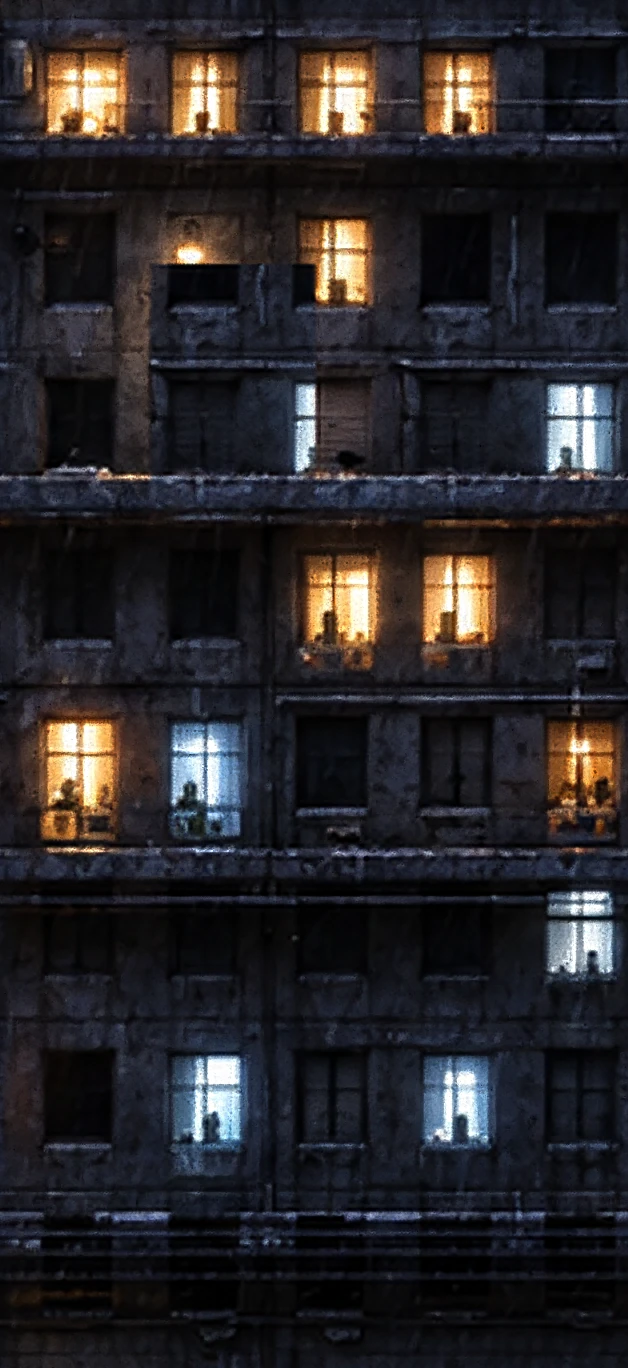
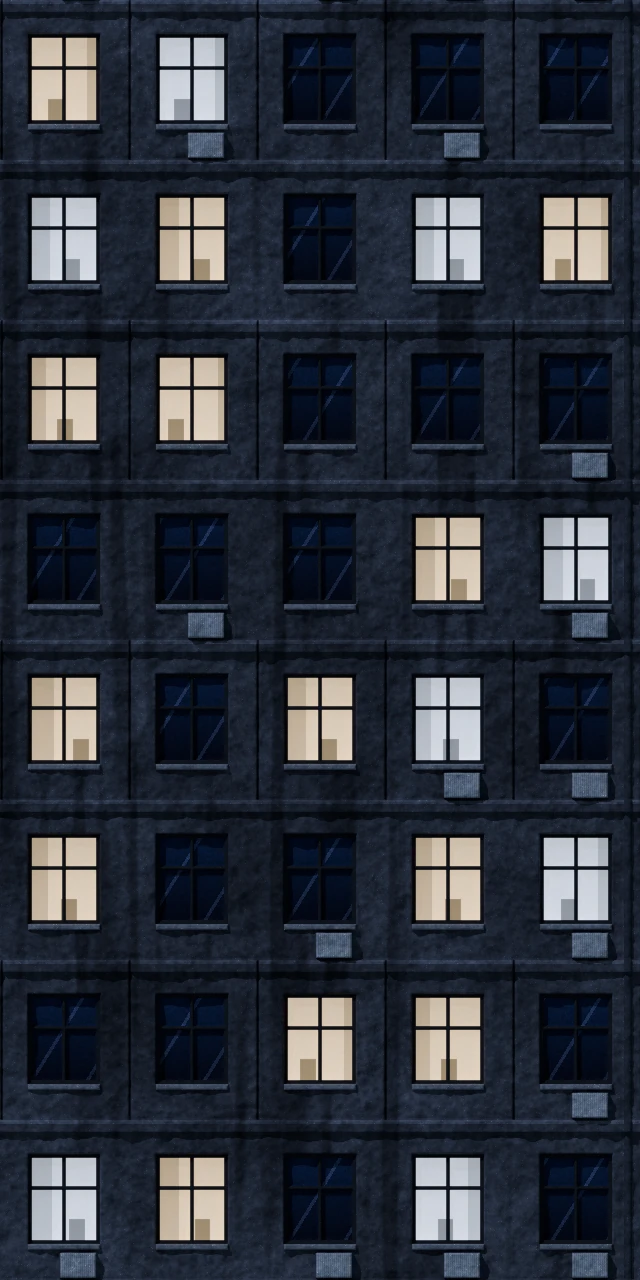
Версия 2026.10.15-60: фасады города — блочный рендер Blender ×4

diff --git a/js/terrain_visual.js b/js/terrain_visual.js
@@ -581,9 +581,9 @@ function shadeMaterial(S, mt, x, y, t, capT, d, info, o, isBack) {
           const lum = r * 0.3 + g * 0.59 + bl * 0.11;
           if (lum > 120 && Math.max(r, g, bl) - Math.min(r, g, bl) > 12 || lum > 175) {
             // свет каждого окна свой (ячейка окна в координатах здания, а не плитки): часть гаснет, у остальных — разная яркость и тон
-            const wc = Math.floor((x - prm.x0) / 31.4), wr = Math.floor((y - prm.y0) / 38), hw = hash3(wc, wr, info.idx * 7 + 11), ht = hash3(wc, wr, info.idx * 7 + 12);
+            const wc = Math.floor((x - prm.x0) / 32), wr = Math.floor((y - prm.y0) / 40), hw = hash3(wc, wr, info.idx * 7 + 11), ht = hash3(wc, wr, info.idx * 7 + 12);
             if (hw < 0.3) { r *= 0.16; g *= 0.17; bl *= 0.2; }
-            else { const k = 0.72 + hw * 0.42; r = Math.min(255, r * k * (ht < 0.5 ? 1.04 : 0.94)); g = Math.min(255, g * k); bl = Math.min(255, bl * k * (ht < 0.5 ? 0.9 : 1.1));
+            else { const k = 0.72 + hw * 0.42, warmW = ht < 0.68; r = Math.min(255, r * k * (warmW ? 1.06 : 0.92)); g = Math.min(255, g * k * (warmW ? 0.84 : 0.98)); bl = Math.min(255, bl * k * (warmW ? 0.58 : 1.1));   /* большинство окон — тёплый свет ламп, как в эталоне */
               o.emit = true; o.emitTex = true; o.ga = (isBack ? 150 : 230) * (0.6 + hw * 0.4); o.gr = r; o.gg = g; o.gb = bl; o.r = r; o.g = g; o.b = bl; }
           }
           else { r *= S.tgR; g *= S.tgG; bl *= S.tgB; }                                              // стены: яркость по эталону (gain темы)

diff --git a/index.html b/index.html
@@ -114,7 +114,7 @@
         </div>
       </div>
     </div>
-    <footer class="menu-footer"><span id="game-version">ВЕРСИЯ 2026.10.15-59</span><span>ПЛАНИРУЙ ХОД. МЕНЯЙ ЛАНДШАФТ.</span><span class="footer-status"><i></i> ГОТОВ К БОЮ</span></footer>
+    <footer class="menu-footer"><span id="game-version">ВЕРСИЯ 2026.10.15-60</span><span>ПЛАНИРУЙ ХОД. МЕНЯЙ ЛАНДШАФТ.</span><span class="footer-status"><i></i> ГОТОВ К БОЮ</span></footer>
   </section>
 
   <!-- Онлайн -->

diff --git a/dev/blender/make_facade.py b/dev/blender/make_facade.py
@@ -1,0 +1,88 @@
+"""Ночной фасад многоэтажки для города — блочный рендер в настоящем ×4 (hf_render.render_blocks), бесшовная плитка
+160×320 ед. (5 окон × 8 этажей, ячейка окна 32×40 ед. — по ней игра гасит и меняет свет окон, terrain_visual.js).
+
+Бетонные панели с потёками и пятнами, выступающие межэтажные пояса, утопленные окна с откосами, рамой, переплётом и
+подоконником, кондиционеры под частью окон, водосток. Горящие окна — тёплый/холодный свет комнаты со шторой и силуэтом
+мебели (излучение), тёмные — стекло с отражением неба и бликом.
+
+blender -b --python dev/blender/make_facade.py
+затем: python dev/tools/stitch_blocks.py test-results/blocks/facade_city <x4.png>; python dev/make_native.py <x4.png> facade_city --no-match --lossy
+"""
+import importlib.util
+import math
+import os
+
+import numpy as np
+
+HERE = os.path.dirname(os.path.abspath(__file__))
+spec = importlib.util.spec_from_file_location('mt', os.path.join(HERE, 'make_textures.py'))
+mt = importlib.util.module_from_spec(spec); spec.loader.exec_module(mt)
+spec2 = importlib.util.spec_from_file_location('hf', os.path.join(HERE, 'hf_render.py'))
+hf = importlib.util.module_from_spec(spec2); spec2.loader.exec_module(hf)
+
+R = 4                      # пикселей на единицу мира (родная ×4)
+TW, TH, CW, RH = 160, 320, 32, 40
+
+
+def gnoise(shape, sy, sx, rng):
+    a = rng.standard_normal(size=shape).astype(np.float32)
+    fy = np.fft.fftfreq(shape[0])[:, None]; fx = np.fft.rfftfreq(shape[1])[None, :]
+    b = np.fft.irfft2(np.fft.rfft2(a) * np.exp(-2 * math.pi ** 2 * ((fy * sy) ** 2 + (fx * sx) ** 2)), s=shape).astype(np.float32)
+    b -= b.mean(); b /= (b.std() + 1e-9); return b
+
+
+def field(seed=161):
+    rng = np.random.default_rng(seed); NY, NX = TH * R, TW * R; SH = (NY, NX)
+    yy, xx = (np.mgrid[0:NY, 0:NX].astype(np.float32) + 0.5) / R
+    ci = (xx // CW).astype(int); ri = (yy // RH).astype(int); fx = xx % CW; fy = yy % RH
+    # стена: бетон с зерном, пятнами и вертикальными потёками
+    mott = gnoise(SH, 6 * R, 6 * R, rng) * 0.6 + gnoise(SH, 18 * R, 18 * R, rng) * 0.4
+    grain = gnoise(SH, 0.5 * R, 0.5 * R, rng); streak = gnoise(SH, 30 * R, 1.2 * R, rng)
+    base = np.array([74, 74, 80], np.float32)
+    C = base * (1 + 0.1 * mott + 0.05 * grain)[..., None]
+    C = C * (1 - np.clip(streak - 0.6, 0, 1) * 0.25)[..., None]
+    H = 0.25 * gnoise(SH, 1.5 * R, 1.5 * R, rng) + 0.08 * grain
+    # стыки панелей и межэтажный пояс (выступает, светлее сверху, тень снизу)
+    seam = (np.abs(fx - 0.5) < 0.35) & (ri % 2 == 0)
+    H = np.where(seam, H - 0.8, H); C = np.where(seam[..., None], C * 0.6, C)
+    band = fy < 3.2
+    H = np.where(band, H + 1.6, H); C = np.where(band[..., None], C * np.where(fy < 1.0, 1.25, 0.95)[..., None], C)
+    # окно: 18×24, утоплено на 3 ед.; рама, переплёт, подоконник
+    wx0, wy0, ww, wh = 7.0, 8.5, 18.0, 22.5
+    inx = (fx >= wx0) & (fx < wx0 + ww); iny = (fy >= wy0) & (fy < wy0 + wh); win = inx & iny
+    lx = (fx - wx0) / ww; ly = (fy - wy0) / wh
+    rw = rng.random((TH // RH + 1, TW // CW + 1)); hue = rng.random(rw.shape); curt = rng.random(rw.shape)
+    lit = rw[ri, ci] < 0.55
+    frame = win & ((lx < 0.05) | (lx > 0.95) | (ly < 0.04) | (ly > 0.96) | (np.abs(lx - 0.5) < 0.025) | (np.abs(ly - 0.38) < 0.02))
+    glass = win & ~frame
+    sky = np.stack([18 + 30 * (1 - ly), 22 + 34 * (1 - ly), 40 + 50 * (1 - ly)], -1).astype(np.float32)
+    diag = ((lx * 1.3 + ly + hue[ri, ci]) % 1.0) < 0.07
+    sky = np.where(diag[..., None], sky + 40, sky)
+    warm = np.where((hue[ri, ci] < 0.6)[..., None], np.array([255, 196, 120], np.float32), np.array([200, 222, 255], np.float32))
+    inter = warm * (0.7 + 0.35 * ly)[..., None]
+    cs_ = np.where(curt[ri, ci] > 0.5, lx < 0.12 + curt[ri, ci] * 0.25, lx > 0.88 - curt[ri, ci] * 0.25)
+    inter = np.where(cs_[..., None], inter * 0.6, inter)
+    furn = (ly > 0.72) & (np.abs(lx - 0.25 - curt[ri, ci] * 0.5) < 0.11)
+    inter = np.where(furn[..., None], inter * 0.3, inter)
+    C = np.where((glass & ~lit)[..., None], sky, C); C = np.where((glass & lit)[..., None], inter, C)
+    C = np.where(frame[..., None], np.array([46, 46, 50], np.float32), C)
+    H = np.where(glass, -3.0, np.where(frame, -1.6, H))
+    sill = inx & (fy >= wy0 + wh) & (fy < wy0 + wh + 1.6)
+    H = np.where(sill, H + 1.2, H); C = np.where(sill[..., None], np.array([120, 120, 124], np.float32), C)
+    # кондиционер под частью окон, водосток у края плитки
+    ac = (hue[ri, ci] > 0.72) & (fx >= wx0 + ww * 0.45) & (fx < wx0 + ww * 0.95) & (fy >= wy0 + wh + 2.2) & (fy < wy0 + wh + 8.5)
+    H = np.where(ac, H + 3.0, H); C = np.where(ac[..., None], np.array([150, 152, 156], np.float32) * (0.92 + 0.08 * ((xx * 4 % 2) > 1))[..., None], C)
+    pipe = np.abs(xx - (TW - 3)) < 1.1
+    H = np.where(pipe, H + 1.1 * np.sqrt(np.clip(1 - ((xx - (TW - 3)) / 1.1) ** 2, 0, 1)), H); C = np.where(pipe[..., None], np.array([62, 64, 70], np.float32), C)
+    E = np.where((glass & lit)[..., None], inter / 255.0 * 0.9, 0).astype(np.float32)
+    return H.astype(np.float32), np.clip(C, 0, 255), E
+
+
+def main():
+    H, C, E = field()
+    hf.render_blocks(mt, 'facade_city', H, C, E, R2=R, up=1, block=640, light=dict(col=(0.62, 0.7, 1.0), elev=35, energy=1.6), samples=128,
+                     rough=0.85, spec=0.2, emit=1.2, hgrain=0.1, cgrain=0.3, speck=0.004)
+    print('FACADE facade_city', flush=True)
+
+
+main()

diff --git a/CLAUDE.md b/CLAUDE.md
@@ -7,7 +7,7 @@ D:\Територивар1 и пользовательский Territory-War100 
 Не выполнять старые указания reset/clean/push/автоматического обновления (локальные коммиты можно).
 Запускать «Играть.cmd» или «Играть онлайн.cmd» из D:\Територивар.
 Полная переписка: dev/imported-chat/claude-code. Текущие цели: dev/NEXT_STEPS.md.
-Актуальная версия 2026.10.15-59, передача: dev/HANDOFF-2026-10-04.md и разделы «Версия 33–45» в dev/NEXT_STEPS.md.
+Актуальная версия 2026.10.15-60, передача: dev/HANDOFF-2026-10-04.md и разделы «Версия 33–45» в dev/NEXT_STEPS.md.
 Версия 45 (14.10): кадр наведения соперника — Camera.shotFrame идёт за дальней точкой (точка у края кадра с отступом); удары, попадания и снаряды центруются и у края карты (clampTo, reach). Ядерка — game.nuke (rd 430, pierce 0.5, урон 280). Звуки Sonniss GDC 2026 скачаны в D:\Sonniss-GDC2026\zips (лицензия без авторства; не выкладывать сами файлы). Версия 46: звук Sonniss (amb_*, boom5–9, nukeboom, ice0–1; dev/tools/sonniss_make.py; AMB_REC в audio.js), мотор ракеты ROCKET_MOTOR (entities.js, и в simulateShot), обломки PART_REST (particles.js), цветы flower1–4 и листья leaf1–4 (make_decor.py; цветы — в слое растений terrain_visual.js). Версия 48: оружие и взрывы из прошлых наборов Sonniss (выборочно по HTTP Range — scratchpad zip_fetch.py, копия D:\Sonniss-GDC2026\zip_fetch.py; записи в D:\Sonniss-GDC2026\guns; нарезка dev/tools/guns_make.py). Версия 49: makeup-усиление в audio.js init (2.5), лазер — ошибка по ветру (entities.js orbital), pickFrame — кадр по середине «самолёт…земля» (zFit), clampTo — свободный обзор до края (edge/scopeFocus/binoc), прицел соперника прижат к краю экрана со стрелкой. Лимиты: критик — лёгкий (8 уменьшенных снимков), тяжёлое — фоновыми процессами.
 Графика (просьба 09.10): всё векторное и лоскутное — в фотореалистичный Blender (кладка dev/blender/make_masonry.py, ели snow_spruce в make_textures.py, плющ make_ivy.py, декор make_decor.py); доски корабля dev/tools/make_hull_planks.py, чистка снега в текстуре dev/tools/despeckle_snow.py; критик r22 — dev/reviews/r22.md.
 Чёткость (просьба 10.10): текстуры чёткие при ЛЮБОМ увеличении — у каждого материала родная ×4 в assets/tex/native (Blender: dev/blender/hf_render.py блоками, make_masonry.py, make_metal.py; остальное — dev/native_batch.py через dev/tools/native_queue.py), проверять снимками на 1,3×/2×/max и мерой R = ВЧ(1:1)/ВЧ(½) родной (≥ 0.85; у рендеров Blender — узкий фильтр пикселя, без шумоподавления, см. dev/reviews/r24.md). Длинные рендеры возобновляемые (HF_RESUME=1, native_queue.py --clear-stale): у пользователя бывают отключения света.

diff --git a/dev/CORE_GOALS.md b/dev/CORE_GOALS.md
@@ -18,8 +18,7 @@ dev/MASTER_PLAN.md (все просьбы пользователя), а сохр
   v57: лавовые камни и кости вулкана переделаны.
   Осталось:
   v58–59: светильники станции Alien (striplight1), свет окон города по ячейкам.
-  фасад города: плитка 157×342, родная ×4 — не рендер, а дорисовка (мыло при 2,5×) → нужен блочный рендер ×4
-  (как make_masonry/hf_render), facade() в make_textures.py строит поле в малом разрешении; эстакада; металл Alien без повтора и
+  v60: фасад города — блочный рендер ×4 (dev/blender/make_facade.py, плитка 160×320, ячейка окна 32×40); эстакада; металл Alien без повтора и
   светильники, гриб-дерево Alien; тёмная порода rock_alien (пятна).
 - **Чёткость при любом увеличении** (1,3×, 2×, max 2,5×): у каждого материала родная ×4, спрайты — версия ×4 через слой
   растений/декора; края без ступенек (terrain_gl.js и hires.js). Проверять снимками.

diff --git a/README.md b/README.md
@@ -12,6 +12,10 @@
 
 Лаунчеры сразу открывают приложение во весь экран; F11 — выход/возврат. В обычной браузерной ссылке полный экран включается с первого действия пользователя.
 
+## Обновление 60
+
+Город: фасады многоэтажек отрендерены в Blender в настоящем ×4 (dev/blender/make_facade.py) — бетонные панели с потёками, межэтажные пояса, утопленные окна с рамами и переплётом, подоконники, кондиционеры, водосток; в горящих окнах комнаты со шторами и мебелью, тёмные отражают небо. Чётко при любом увеличении (раньше — плитка из эталона, мыльная вблизи).
+
 ## Обновление 59
 
 Город: у каждого окна свой свет — часть погашена, у горящих разная яркость и тон; повтор плитки фасада больше не читается сеткой.
